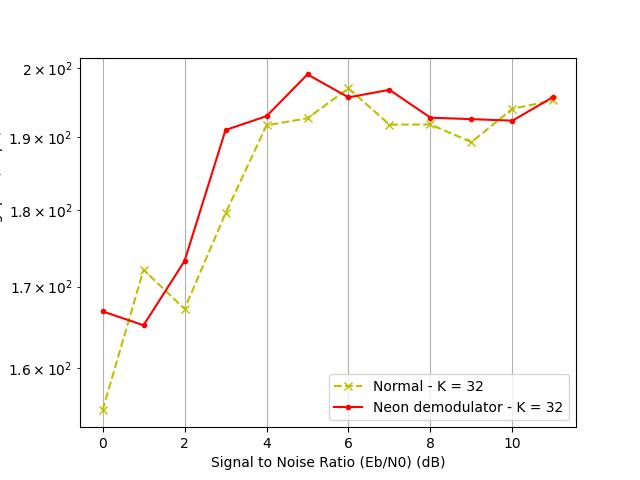
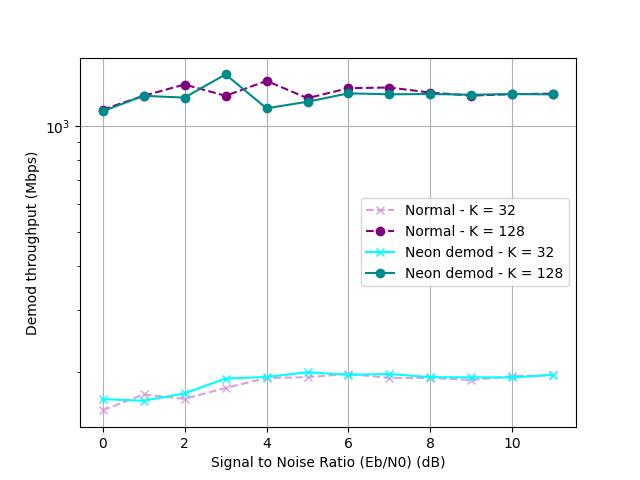
finally fricking done

diff --git a/Modulateur/graphs.py b/Modulateur/graphs.py
@@ -11,36 +11,34 @@ import pandas
 types = ["hard", "soft_32", "soft_64", "soft_96", "soft_128"]
 
 files = [ 
-         ("FINAL SIMS/normal/sim_", "Normal - K = 32", "yx--"),
-         ("FINAL SIMS/normal/big_k/sim_", "Normal - K = 128", "gx--"),
-         ("FINAL SIMS/bit_pack/sim_", "Bit packing - K = 32", "r.-"),
-         ("FINAL SIMS/bit_pack/big_k/sim_", "Bit packing - K = 128", "b.-"), 
+         ("FINAL SIMS/normal/sim_", "Normal - K = 32", "plum", "x", "--"),
+         ("FINAL SIMS/normal/big_k/sim_", "Normal - K = 128", "purple", "o", "--"),
+         ("FINAL SIMS/neon_mod/sim_", "Neon mod - K = 32", "cyan", "x", "-"),
+         ("FINAL SIMS/neon_mod/big_k/sim_", "Neon mod - K = 128", "darkcyan", "o", "-"), 
 ]
 
 for t in types:
-    output = "FINAL GRAPHS/neon_modul/block throughput/"+t
+    #output = "FINAL GRAPHS/neon_modul/block throughput/"+t
     xlabel = "Signal to Noise Ratio (Eb/N0) (dB)"  
-    ylabel = "Demodulator throughput (Mbps)"
+    ylabel = "Modulator throughput (Mbps)"
     x = "Eb/No"
-    y1 = "gen_thr"
-    y2 = "encode_thr"
-    y3 = "mod_thr"
+    y1 = "bpsk_thr"
 
     plt.figure()
     for elem in files:
         sim = pandas.read_csv(elem[0]+t+"_stats.csv")
         simX = sim[[x]]
         simY = sim[[y1]]
-        plt.plot(simX, simY, elem[2], label=elem[1])
-        simY = sim[[y2]]
-        plt.plot(simX, simY, elem[2], label=elem[1])
-        simY = sim[[y3]]
-        plt.plot(simX, simY, elem[2], label=elem[1])
+        plt.plot(simX, simY, color=elem[2], marker=elem[3], linestyle=elem[4], label=elem[1])
+        #simY = sim[[y2]]
+        #plt.plot(simX, simY, color=elem[2], marker=elem[3], linestyle=elem[4], label=elem[1])
+        #simY = sim[[y3]]
+        #plt.plot(simX, simY, color=elem[2], marker="o", linestyle=elem[4], label="FER "+elem[1])
 
     plt.xlabel(xlabel)
     plt.ylabel(ylabel)
     plt.yscale("log")
-    plt.legend()
     plt.grid()
-    plt.savefig("FINAL GRAPHS/bit_pack/block_throughput/"+t+".jpg", format="jpg")
+    plt.legend()
+    plt.savefig("FINAL GRAPHS/neon_modul/block throughput/"+t+".jpg", format="jpg")
     

diff --git a/Modulateur/simulator.c b/Modulateur/simulator.c
@@ -30,15 +30,6 @@ pthread_mutex_t block6_mutex = PTHREAD_MUTEX_INITIALIZER;
 #include "decode.h"
 #include "monitor.h"
 
-void print_array (uint8_t* array, size_t size) {
-    printf("[");
-    for (int i=0; i<size; i++) {
-        if (i%8 == 0) printf("\n");
-        printf("%d ; ", array[i]);
-    }
-    printf("]");
-}
-
 // Global variables are necessary since we use threads - no parameters routine
 //  simulation parameters & default values
 float min_SNR = 0;
@@ -72,7 +63,6 @@ float average = 0;            // average time per frame for 1 SNR sim
 float sim_thr;                // throughput for 1 SNR sim (Mbps)
 
 // For random noise
-
 const gsl_rng_type *rangentype;
 gsl_rng *rangen;
 // Per-block statistics
@@ -82,7 +72,6 @@ float max_time[7] = {-1};
 float avg_time[7] = {0};
 float avg_thr[7] = {0};
 float total_time_func = 0; // total time for 1 SNR sim NOT including calculations
-
 #endif
 
 // Function pointers to easily change the function used
@@ -102,6 +91,7 @@ char filepath_stats[30] = {0};
 void *routine(void *param)
 {
     // Arrays & simulation parameters
+    // K, N used for variable length depending on bit packing or not
     uint8_t U_K[K];             // Source message
     uint8_t C_N[N];             // Repetition coded message
     int32_t X_N[codeword_size]; // Modulated message
@@ -116,7 +106,7 @@ void *routine(void *param)
     float cycles = 0;
     clock_t begin_step, end_step; // block time
 #endif
-                                  // simulate this snr until we reach desired number of errors
+// simulate this snr until we reach desired number of errors
     do
     {
 // SOURCE GEN - create frame

diff --git a/Modulateur/rapport_projet.md b/Modulateur/rapport_projet.md
@@ -5,7 +5,7 @@ WILCOX Grace
 # Preliminary note
 We tested our code with both K=32 and K=128. On the graph, we were able to see that while the BER remained unchanged, the FER was affected by this modification, for our reference point as well as our optimized code. This is because one bit error only leads to one frame error, no matter the number of information bits. This means that for K=32, we have 32 chances of getting a bit error, while for K=128, we have 4 times more chances of having a bit error, leading to an increased frame error rate.
 
-We also noted that our throughputs, global or per block, could greatly vary from one SNR to the next, leading to unclear results. While most of the time, we do have better throughput in our optimized versions, we decided it was more obvious to plot graphs based on the average time for the block / simulation chain instead of the throughput. Throughput data can still be found in the .csv files if so desired.
+We also noted that our throughputs, global or per block, could greatly vary from one SNR to the next, leading to unclear results. While most of the time, we do have better throughput in our optimized versions, we decided it was more obvious to plot graphs based on the average time for the block / simulation chain instead of the throughput, so we reference those plots in this report. Throughput data can still be found in the .csv files and plotted in the `FINAL PLOTS` folder if so desired.
 
 # Axe 1 - Speedup the whole chain
 ## Using threads
@@ -174,6 +174,8 @@ Simulated using:
 - standard monitor
 
 *Error rates*
+![bitpack_perf](bitpack_perf.jpg)
+The error rates remain unchanged when using bit packing, as desired.
 
 *Block timing*
 ![bitpack_time](bitpack_time.jpg)
